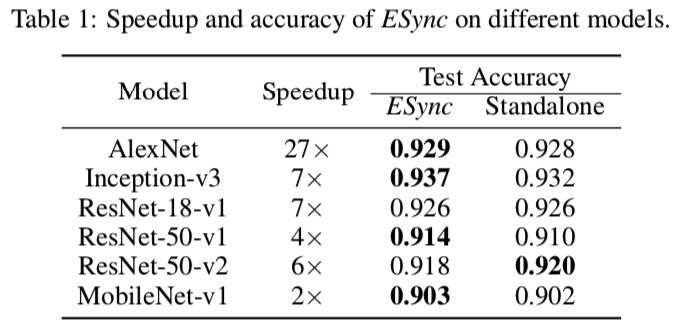
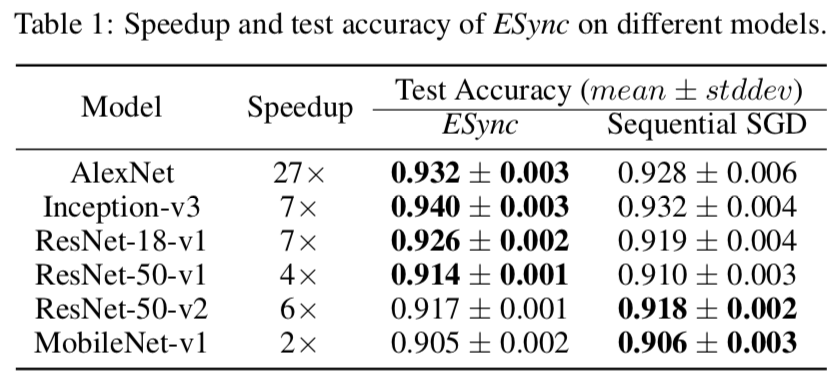
update README

diff --git a/main.py b/main.py
@@ -13,21 +13,21 @@ if __name__ == "__main__":
     [Distributed]
     DMLC_ROLE=scheduler DMLC_PS_ROOT_URI=10.1.1.34 DMLC_PS_ROOT_PORT=9091 DMLC_NUM_SERVER=1 DMLC_NUM_WORKER=6 \
         PS_VERBOSE=1 DMLC_INTERFACE=eno2 \
-        nohup python ~/ESync/main.py -c 1 -m esync -dcasgd 0 -l 0.0005 > scheduler.log &
+        nohup python ~/ESync/main.py -c 1 -m esync -dcasgd 0 -ll 0.0005 > scheduler.log &
 
     DMLC_ROLE=server DMLC_PS_ROOT_URI=10.1.1.34 DMLC_PS_ROOT_PORT=9091 DMLC_NUM_SERVER=1 DMLC_NUM_WORKER=6 \
         PS_VERBOSE=1 DMLC_INTERFACE=eno2 \
-        nohup python ~/ESync/main.py -c 1 -m esync -dcasgd 0 -l 0.0005 > server.log &
+        nohup python ~/ESync/main.py -c 1 -m esync -dcasgd 0 -ll 0.0005 > server.log &
 
     DMLC_ROLE=worker DMLC_PS_ROOT_URI=10.1.1.34 DMLC_PS_ROOT_PORT=9091 DMLC_NUM_SERVER=1 DMLC_NUM_WORKER=6 \
         PS_VERBOSE=1 DMLC_INTERFACE=eno2 \
-        nohup python ~/ESync/main.py -g 0 -m esync -dcasgd 0 -n resnet50-v2 -s 0 -b 64 -l 0.0005 > worker_gpu_0.log &
+        nohup python ~/ESync/main.py -g 0 -m esync -dcasgd 0 -n resnet50-v2 -s 0 -b 64 -ll 0.0005 > worker_gpu_0.log &
     DMLC_ROLE=worker DMLC_PS_ROOT_URI=10.1.1.34 DMLC_PS_ROOT_PORT=9091 DMLC_NUM_SERVER=1 DMLC_NUM_WORKER=6 \
         PS_VERBOSE=1 DMLC_INTERFACE=eno2 \
-        nohup python ~/ESync/main.py -g 1 -m esync -dcasgd 0 -n resnet50-v2 -s 0 -b 64 -l 0.0005 > worker_gpu_1.log &
+        nohup python ~/ESync/main.py -g 1 -m esync -dcasgd 0 -n resnet50-v2 -s 0 -b 64 -ll 0.0005 > worker_gpu_1.log &
     DMLC_ROLE=worker DMLC_PS_ROOT_URI=10.1.1.34 DMLC_PS_ROOT_PORT=9091 DMLC_NUM_SERVER=1 DMLC_NUM_WORKER=6 \
         PS_VERBOSE=1 DMLC_INTERFACE=eno2 \
-        nohup python ~/ESync/main.py -c 1 -m esync -dcasgd 0 -n resnet50-v2 -s 0 -b 64 -l 0.0005 > worker_cpu.log &
+        nohup python ~/ESync/main.py -c 1 -m esync -dcasgd 0 -n resnet50-v2 -s 0 -b 64 -ll 0.0005 > worker_cpu.log &
     """
 
     parser = argparse.ArgumentParser()

diff --git a/README.md b/README.md
@@ -17,6 +17,7 @@ ESync is an efficient synchronous parallel algorithm designed for distributed ma
 * numpy == 1.16.2
 * argparse == 1.4.0
 * matplotlib == 3.0.3
+* django == 2.1.7
 
 > Note: MXNet should be compiled with the build flag **USE\_DIST\_KVSTORE=1** to support distributed training. See [Distributed Training in MXNet](https://mxnet.incubator.apache.org/versions/master/faq/distributed_training.html) for more details.
 
@@ -30,12 +31,13 @@ Parameter Name | Flag | Type | Default Value |  Description
 **batch\_size** | -b | int | 64 | The number of samples processed in an iteration on each device.
 **data\_dir**| -dd | string | /home/lizh/ESync/data | Path to the data files. Include a folder named *fashion-mnist*, which contains *t10k-images-idx3-ubyte.gz*, *t10k-labels-idx1-ubyte.gz*, *train-images-idx3-ubyte.gz*, *train-labels-idx1-ubyte.gz*. The Fashion-MNIST dataset is available on [Github](https://github.com/zalandoresearch/fashion-mnist).
 **gpu** | -g | int | 0 | The ID of GPU used for training. We default to using only one GPU for each process in the current version, i.e. only one integer is allowed.
-**cpu** | -c | bool | *False* | Default to training on GPU 0 (set by the option **gpu**), set **cpu** to *True* to support training on CPU.
+**cpu** | -c | int | 0 | Default to training on GPU 0 (set by the option **gpu**), set **cpu** to 1 to support training on CPU.
 **network** | -n | string | *resnet18-v1* | The network used to evaluate the performance of *esync*, *sync* and *async*. We support [*alexnet*, *resnet18-v1*, *resnet50-v1*, *resnet50-v2*, *mobilenet-v1*, *mobilenet-v2*, *inception-v3*] in the current version.
 **log\_dir** | -ld | string | /home/lizh/ESync/logs | Path to save the logs. The folder named *logs* will be created automatically at the specified path, and it will be emptied during initialization. The Measure module will create subfolders "{device\_name}{device\_id}" and save log files "iter-{iter\_num}.txt" in these subfolders.
 **eval\_duration** | -e | int | 1 | Interval for model evaluation, default to evaluating the model in each communication round. We recommend evaluating the model on devices with strong computing capability.
 **mode** | -m | string | *esync* | Support [*esync*, *sync*, *async*, *local*]. Set **mode** to *local* to train the model on single device.
-**split\_by\_class** | -s | bool | *False* | Default to allocating datasets using the uniform random sampling. Set **split\_by\_class** to *True* to allocate specific classes of samples to each device, for example, allocate samples with labels 0\~4 to device 0 and samples with labels 5\~9 to device 1.
+**use\_dcasgd** | -dcasgd | int | 0 | Set **use\_dcasgd** to 1 to enable [DC-ASGD](https://www.researchgate.net/publication/308692359_Asynchronous_Stochastic_Gradient_Descent_with_Delay_Compensation_for_Distributed_Deep_Learning) optimizer.
+**split\_by\_class** | -s | int | 0 | Default to allocating datasets using the uniform random sampling. Set **split\_by\_class** to 1 to allocate specific classes of samples to each device, for example, allocate samples with labels 0\~4 to device 0 and samples with labels 5\~9 to device 1.
 **state\_server\_ip** | -ip | string | 10.1.1.34 | The IP of State Server.
 **state\_server\_port** | -port | string | 10010 | The port of State Server.
 
@@ -48,10 +50,10 @@ Parameter Name | Flag | Type | Default Value |  Description
 ### Training on a single device
 
 ```
-python main.py -m local -n resnet18-v1 -g 0 -e 100
+python main.py -m local -g 0 -n resnet18-v1 -l 0.001 -b 64 -e 1000
 ```
 
-In the above command, we train the *resnet18-v1* model on a single device (GPU 0) and evaluate the model every 100 iterations. This mode only prints test accuracy at the terminal without recording log files.
+In the above command, we train the *resnet18-v1* model on a single device (GPU 0) using learning rate 0.001 and batch size 64 and evaluate the model every 1000 iterations. This mode only prints test accuracy on the terminal without recording log files.
 
 ### Distributed Training
 
@@ -80,10 +82,14 @@ Run the following commands on cloud2 (IP: 10.1.1.34) to start the scheduler:
 > cd /path/to/ESync
 > DMLC_ROLE=scheduler DMLC_PS_ROOT_URI=10.1.1.34 DMLC_PS_ROOT_PORT=9091 DMLC_NUM_SERVER=1 \
   DMLC_NUM_WORKER=6 PS_VERBOSE=1 DMLC_INTERFACE=eno2 \
-  nohup python main.py -c True -m esync > scheduler.log &
+  nohup python main.py -m esync -c True -ll 0.001 -dcasgd 0 > scheduler.log &
 ```
 
-We start the scheduler on cloud2 and listen on port 9091 to wait for the messages (e.g. register, heartbeat) from workers. We specify the scheduler to use CPU to avoid errors that no GPU resources available, and specify **mode** to *esync* to run ESync algorithm (Set **mode** to *sync* or *async* to run SSGD or ASGD).
+We start the scheduler on cloud2 and listen on port 9091 to wait for the messages (e.g. register, heartbeat) from workers. We specify the scheduler to use CPU to avoid errors that no GPU resources available, and specify **mode** to *esync* to run ESync algorithm.
+
+> Note: Set **mode** to *sync* or *async* to run SSGD or ASGD. If **mode** is *async*, you can set **use\_dcasgd** to 1 to enable DC-ASGD.
+
+> Note: Use **-ll** to specify the local learning rate in ESync, and use **-l** to specify the learning rate in SSGD, ASGD and DC-ASGD.
 
 > Note: Specify the network interface manually through **DMLC_INTERFACE** if multiple network interfaces exist on the server, otherwise, we may fail to access other servers.
 
@@ -96,7 +102,7 @@ Run the following commands on cloud2 (IP: 10.1.1.34) to start the parameter serv
 ```
 > DMLC_ROLE=server DMLC_PS_ROOT_URI=10.1.1.34 DMLC_PS_ROOT_PORT=9091 DMLC_NUM_SERVER=1 \
   DMLC_NUM_WORKER=6 PS_VERBOSE=1 DMLC_INTERFACE=eno2 \
-  nohup python main.py -c True -m esync > server.log &
+  nohup python main.py -m esync -c True -ll 0.001 -dcasgd 0 > server.log &
 ```
 
 The parameter server will create a TCP connection to the scheduler and complete registration automatically by specifying **DMLC\_PS\_ROOT\_URI** and **DMLC\_PS\_ROOT\_PORT** (the same as workers). The aggregation operations will be performed on GPU if **cpu** is set to *False*.
@@ -108,15 +114,15 @@ Run the following commands on cloud1 (IP: 10.1.1.29) and cloud3 (IP: 10.1.1.33) 
 ```
 > DMLC_ROLE=worker DMLC_PS_ROOT_URI=10.1.1.34 DMLC_PS_ROOT_PORT=9091 DMLC_NUM_SERVER=1 \
   DMLC_NUM_WORKER=6 PS_VERBOSE=1 DMLC_INTERFACE=eno2 \
-  nohup python main.py -g 0 -m esync -n resnet18-v1 > worker_gpu_0.log &
+  nohup python main.py -m esync -g 0 -n resnet18-v1 -ll 0.001 -b 64 -dcasgd 0 -s 0 > worker_gpu_0.log &
   
 > DMLC_ROLE=worker DMLC_PS_ROOT_URI=10.1.1.34 DMLC_PS_ROOT_PORT=9091 DMLC_NUM_SERVER=1 \
   DMLC_NUM_WORKER=6 PS_VERBOSE=1 DMLC_INTERFACE=eno2 \
-  nohup python main.py -g 1 -m esync -n resnet18-v1 > worker_gpu_1.log &
+  nohup python main.py -m esync -g 1 -n resnet18-v1 -ll 0.001 -b 64 -dcasgd 0 -s 0 > worker_gpu_1.log &
   
 > DMLC_ROLE=worker DMLC_PS_ROOT_URI=10.1.1.34 DMLC_PS_ROOT_PORT=9091 DMLC_NUM_SERVER=1 \
   DMLC_NUM_WORKER=6 PS_VERBOSE=1 DMLC_INTERFACE=eno2 \
-  nohup python main.py -c 1 -m esync -n resnet18-v1 > worker_cpu.log &
+  nohup python main.py -m esync -c 1 -n resnet18-v1 -ll 0.001 -b 64 -dcasgd 0 -s 0 > worker_cpu.log &
 ```
 
 We start workers on GPU 0, GPU 1 and CPU respectively on both cloud1 and cloud3, and obtain a small-scale heterogeneous cluster with 6 workers, 1 parameter server, 1 scheduler and 1 state server (optional). In the example above, we run a distributed machine learning task to train the ResNet18-v1 model based on ESync algorithm, and the evaluation operations will be performed on device with rank 0.
@@ -138,7 +144,7 @@ resnet18-v1
                 |── gpu1
 ```
 
-Pre-trained log files are available at <code>lfs/logs.zip</code>, which contains the logs generated by several classic models (AlexNet, Inception-v3, MobileNet-v1, ResNet18-v1, ResNet50-v1, ResNet50-v2) and four training modes (ESync, Sync (i.e. SSGD), Async (i.e. ASGD, provided only in *resnet18-v1*), Standalone). In addition, we also provide the test accuracy curve of ESync and Sync in the *results* folders.
+Pre-trained log files are available at <code>lfs/logs.zip</code>, which contains the logs generated by several classic models (AlexNet, Inception-v3, MobileNet-v1, ResNet18-v1, ResNet50-v1, ResNet50-v2) and five training modes (ESync, SSGD, ASGD, DC-ASGD, Sequential SGD). In addition, we also provide the test accuracy curve of ESync and Sync in the *results* folders.
 
 ### Log Summary
 
@@ -189,16 +195,16 @@ and draw the following figures:
 
 <img src="images/resnet18-v1-computing-time-ratio.png" width="800px" />
 
-> Note: The dotted lines in Fig. 1 and Fig. 2 draw the test accuracy when training on a single device. The test accuracy of standalone training is available in the file *standalone.txt* and should be specified at lines 260 and 272.
+> Note: The dotted lines in Fig. 1 and Fig. 2 draw the test accuracy when training on a single device. The test accuracy of standalone training is available in the file *standalone.txt* and should be specified at lines 202 and 215 in the file <code>drawer.py</code>.
 
-> Note: Since only device with rank 0 records the values of test accuracy, we need to ensure that the variable *config* at lines 258 and 270 specifies the correct devices. We list the *config* for each model in our experiments as follows:
+> Note: Since only device with rank 0 records the values of test accuracy, we need to ensure that the variable *config* in the file <code>drawer.py</code> at lines 201 and 214 specifies the correct devices. We list the *config* for each model in our experiments as follows:
 
-* AlexNet: <code>("cloud3", "gpu1"), ("cloud3", "gpu1"), (null, null)</code>;
-* Inception-v3: <code>("cloud3", "gpu0"), ("cloud3", "gpu0"), (null, null)</code>;
-* MobileNet-v1: <code>("cloud3", "gpu1"), ("cloud3", "gpu0"), (null, null)</code>;
-* ResNet18-v1: <code>("cloud3", "gpu0"), ("cloud3", "gpu1"), ("cloud3", "gpu0")</code>;
-* ResNet50-v1: <code>("cloud3", "gpu0"), ("cloud3", "gpu1"), (null, null)</code>;
-* ResNet50-v2: <code>("cloud3", "gpu0"), ("cloud3", "gpu1"), (null, null)</code>;
+* AlexNet: <code>("cloud3", "gpu1"), ("cloud3", "gpu1"), (null, null), (null, null)</code>;
+* Inception-v3: <code>("cloud3", "gpu0"), ("cloud3", "gpu0"), (null, null), (null, null)</code>;
+* MobileNet-v1: <code>("cloud3", "gpu1"), ("cloud3", "gpu0"), (null, null), (null, null)</code>;
+* ResNet18-v1: <code>("cloud3", "gpu0"), ("cloud3", "gpu1"), ("cloud3", "gpu0"), ("cloud3", "gpu1")</code>;
+* ResNet50-v1: <code>("cloud3", "gpu0"), ("cloud3", "gpu1"), (null, null), (null, null)</code>;
+* ResNet50-v2: <code>("cloud3", "gpu0"), ("cloud3", "gpu1"), (null, null), (null, null)</code>;
 
 #### Other Models
 
@@ -218,7 +224,7 @@ and draw the following figures:
 
 # Speed-up and Convergence
 
-We define the speedup as the time ratio to achieve test accuracy 0.8, and compare the speedup of ESync to Sync and the test accuracy with the standalone training on several classic models. The results show that ESync can greatly accelerate the training process and finally achieve the same (sometimes higher) accuracy as the standalone training. 
+We define the speedup as the time ratio to achieve test accuracy 0.8, and compare the speedup of ESync to Sync and the test accuracy with the standalone training on several classic models. The results show that ESync can greatly accelerate the training process and finally achieve the same (sometimes higher) accuracy as sequential SGD. 
 
 <div align="center"><img src="images/speedup-convergence.png" width="500px" /></div>
 
@@ -233,3 +239,5 @@ We define the speedup as the time ratio to achieve test accuracy 0.8, and compar
 [[4] Gibiansky, Andrew. "Bringing HPC techniques to deep learning". http://research.baidu.com/bringing-hpc-techniques-deep-learning/, 2017.2.21.](http://research.baidu.com/bringing-hpc-techniques-deep-learning/)
 
 [[5] Rabenseifner, Rolf. "Optimization of collective reduction operations." International Conference on Compu- tational Science, Krakow, Poland, 2004.6.6-6.9.](https://link.springer.com/content/pdf/10.1007%2F978-3-540-24685-5_1.pdf)
+
+[[6] Zheng, Shuxin, et al. "Asynchronous stochastic gradient descent with delay compensation." Proceedings of the 34th International Conference on Machine Learning-Volume 70. JMLR. org, 2017.](https://www.researchgate.net/publication/308692359_Asynchronous_Stochastic_Gradient_Descent_with_Delay_Compensation_for_Distributed_Deep_Learning)
